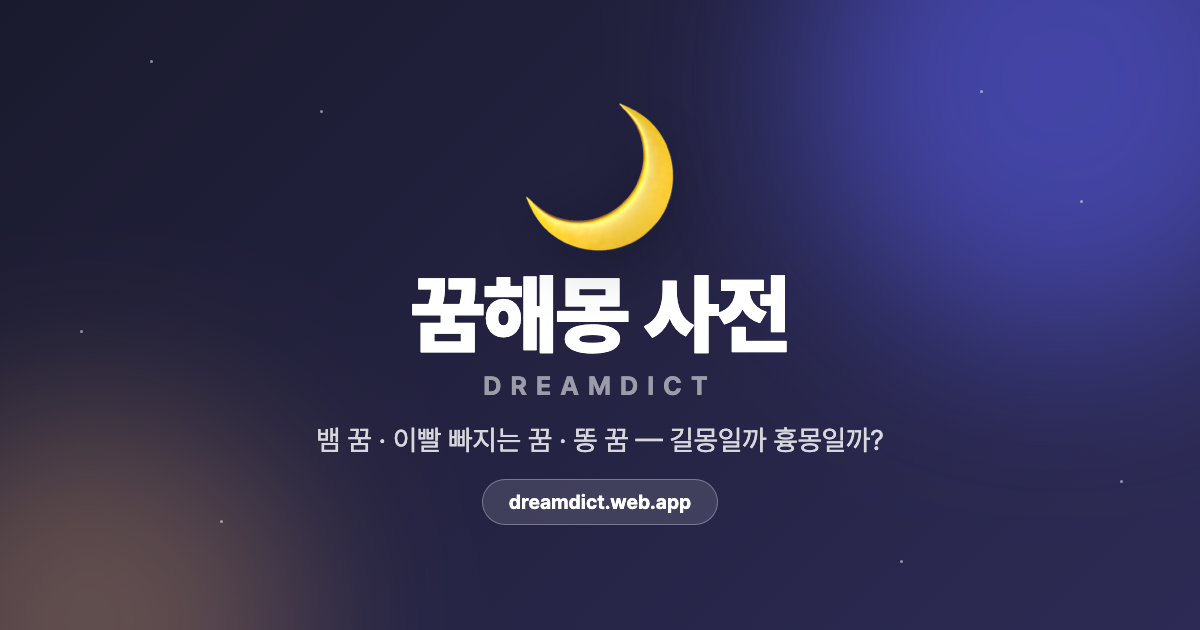
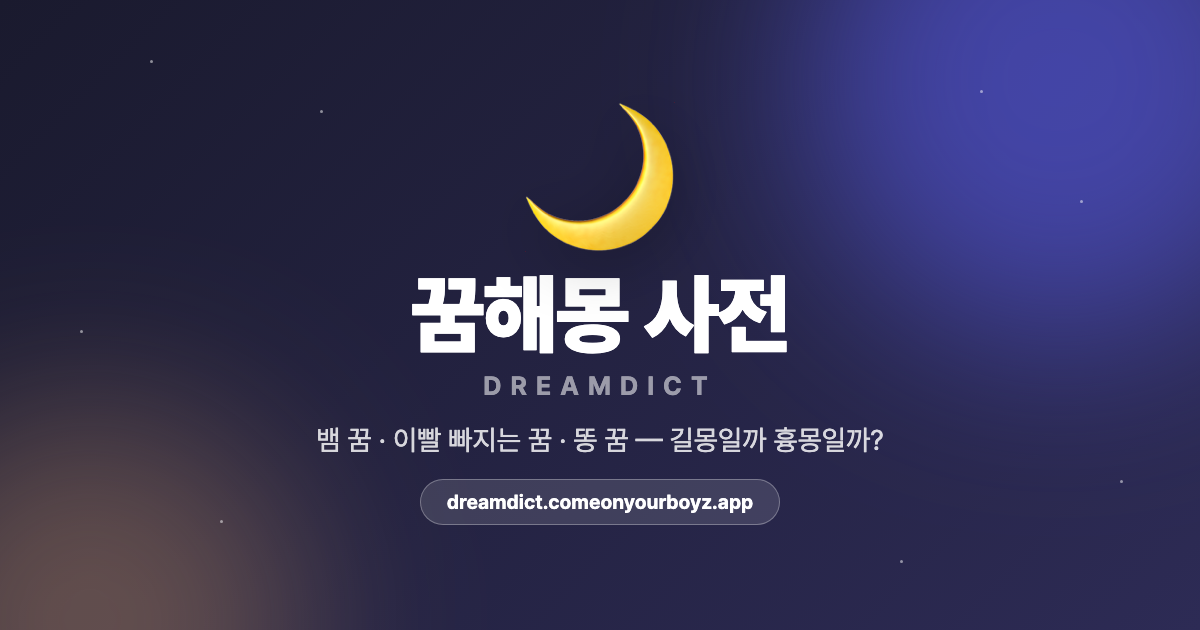
fix : 공유 이미지(og-image)의 옛 주소 글자를 새 도메인으로 교체
what : 디자인 원본 기준으로 og 이미지를 다시 만들어 교체하고, 카카오·SNS 캐시가 새로 받도록 이미지 주소의 버전 값을 올림
why : 공유 카드 이미지에 옛 주소(*.web.app)가 박혀 있어 이전한 도메인과 맞지 않았음

AI-Use: Yes
AI-Model: Claude Sonnet 5.5
AI-Contribution: 90%

Changed region(s): [[0.3392, 0.754, 0.6475, 0.8444]]

diff --git a/scripts/build-site.js b/scripts/build-site.js
@@ -11,7 +11,7 @@ const SITE = {
   name: '꿈해몽 사전',
   nameEn: 'DreamDict',
   desc: '꿈에 나온 것을 검색하면 길몽·흉몽 판정과 상황별 해몽을 바로 알려드리는 꿈해몽 사전입니다.',
-  ogImage: 'https://dreamdict.comeonyourboyz.app/og-image.png',
+  ogImage: 'https://dreamdict.comeonyourboyz.app/og-image.png?v=2',
   launch: '2026-09-10',
   kakaoKey: '20fa9624337a5f9b11b0fe995708b754',
   adsense: 'ca-pub-5479403345572412', // 2026-10-13 애드센스 승인. 자동 광고라 스크립트만 둔다
